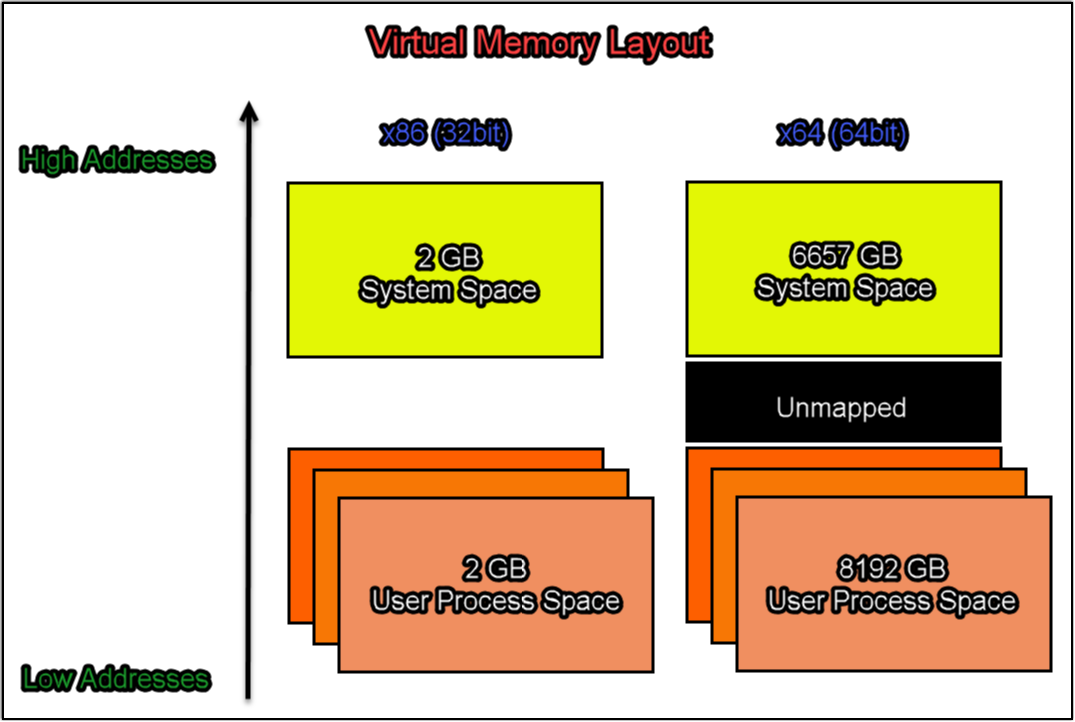
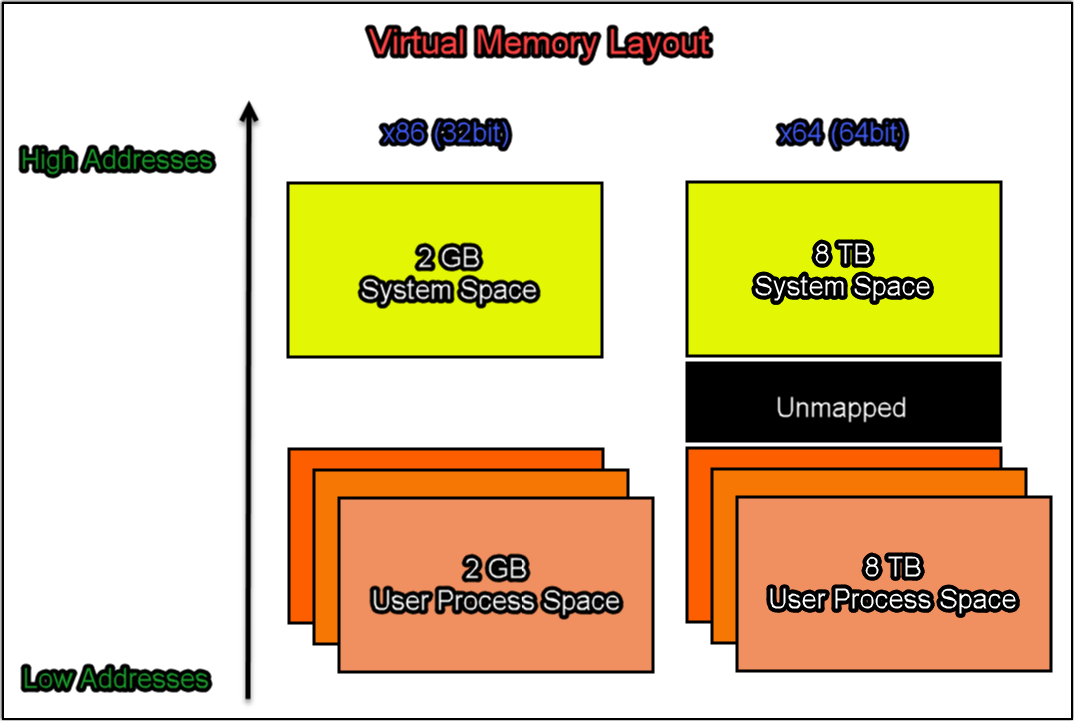
commit

Changed region(s): [[0.706, 0.7618, 0.9516, 0.8532], [0.706, 0.3047, 0.8902, 0.4266]]

diff --git a/_posts/2020-03-29-Introduction-to-Windows-Demystifying-Windows-System-Architecture-and-Memory-Management.md b/_posts/2020-03-29-Introduction-to-Windows-Demystifying-Windows-System-Architecture-and-Memory-Management.md
@@ -132,16 +132,6 @@ When a process allocates memory, it is mapped to physcial memory (Blue blocks in
 	- For example; two processes resourcing for 'Notepad.exe'
 		- Windows will try and share resources as much as possible, if it makes sense to.
 
-Virtual Memory Layout
----
-
-
-<img src="{{ site.url }}{{ site.baseurl }}/images/virtual-memory-layout.png" alt="">
-
-4 GB - 32bit (2GB User Process Space (0x00000000 - 0x7FFFFFFF) / 2GB System Space (0x80000000 - 0xFFFFFFFF))  
-14 TB - 64bit (8 TB User Process Space (0x00000000'00000000 - 0x00007FFF'FFFFFFFF) / 6 TB System (Kernel) Space (0xFFFF0800'00000000 - 0xFFFFFFFF'FFFFFFFF))
-- The remainder of memory space for x64 is unmapped, due to Windows restrictions and/or due to limitations in CPUs
-
 In task manager or process explorer, under the 'Details' tab, you can see the 'Memory (Private Working Set)' column.
 - 'Private' meaning the memory is not shared
 	- Allocating memory via 'malloc' is considered private memory, this is what is shown
@@ -152,6 +142,33 @@ In task manager or process explorer, under the 'Details' tab, you can see the 'M
 - The values under this column are always divisible by 4 (The size of a memory page)
 
 (Windbg visuals / Process Explorer (or Task Manager) Visuals / VMMap visuals)
+
+Virtual Memory Layout
+---
+Now, let's talk a little bit about Virtual Memory, how it works, and the differences between 32-bit and 64-bit virtual memory space.
+
+<img src="{{ site.url }}{{ site.baseurl }}/images/virtual-memory-layout.png" alt="">
+
+As seen the in 'Virtual Memory Layout' illustration, shown above, 32-bit and 64-bit architecture have quite a huge gap between one another.
+
+On a 32-bit architecture, we can see that it has a total of 4 GB of virtual memory.  
+The memory is split into User Process Space (Lower Addresses) and System Space (Higher Addresses).  
+- 2 GB for User Process Space
+- 2 GB for System (Kernel) Space
+
+On a 64-bit architecture, we can see that it utilizes a total of 14 TB of virtual memory (prior to Windows 8.1).  
+The memory is split into User Process Space (Lower Addresses) and System Space (Higher Addresses).  
+- 8 TB User Process Space
+- 8 TB System (Kernel) Space
+
+However, upon Windows 8.1 release, the virtual memory space expanded.
+- 128 TB User Process Space
+- 128 TB System (Kernel) Space
+
+<img src="{{ site.url }}{{ site.baseurl }}/images/virtual-memory-layout-81.png" alt="">
+
+If you noticed, the 64-bit architecture virtual memory layout has a section that's 'Unmapped'.  
+This space is unmapped because of windows resritctions and limitations in CPUs, at this time.
 
 General Architecture of Windows
 ---
@@ -174,7 +191,7 @@ Let's break these components down a little bit, just to get an idea of what each
 3. NTDLL.DLL - This is the lowest layer in User Mode and is responsible for the transition from User Mode to Kernel Mode.
 4. Executive - This is the upper layer in Kernel Mode, and is usually accessed by NTDLL.DLL upon transitioning from User Mode to Kernel Mode.
 5. Kernel - The lower layer in Kernel Mode that provides important OS facilities; like Thread Scheduling and Interrupt and Exeception Dispatching.
-6. Device Drivers - This a loadable kernel module that is responsible for carrying out operations for a specific device.
+6. Device Drivers - This a loadable kernel module that is responsible for carrying out operations for a specific device; such as file system and network drivers.
 7. Hardware Abstraction Layer (HAL) - This is a key component in Windows for insulating between the hardware and software.
 8. Graphics (Win32k) - This is used to handle all window related requests; such as resizing/minimzing a windows screen,etc. (UI related)
 - For this, instead of being directed to the 'Executive' component, your request will be sent here
